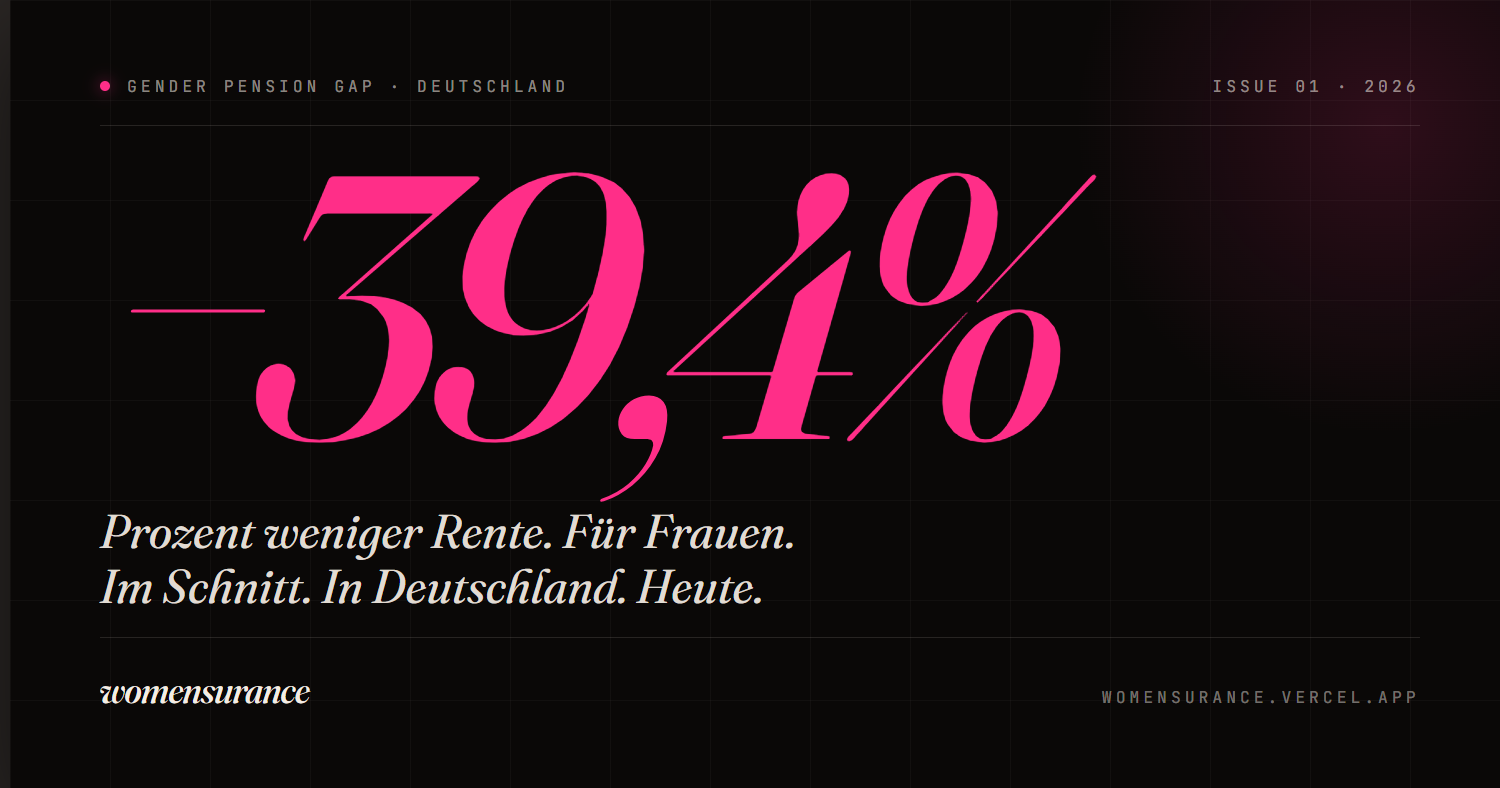
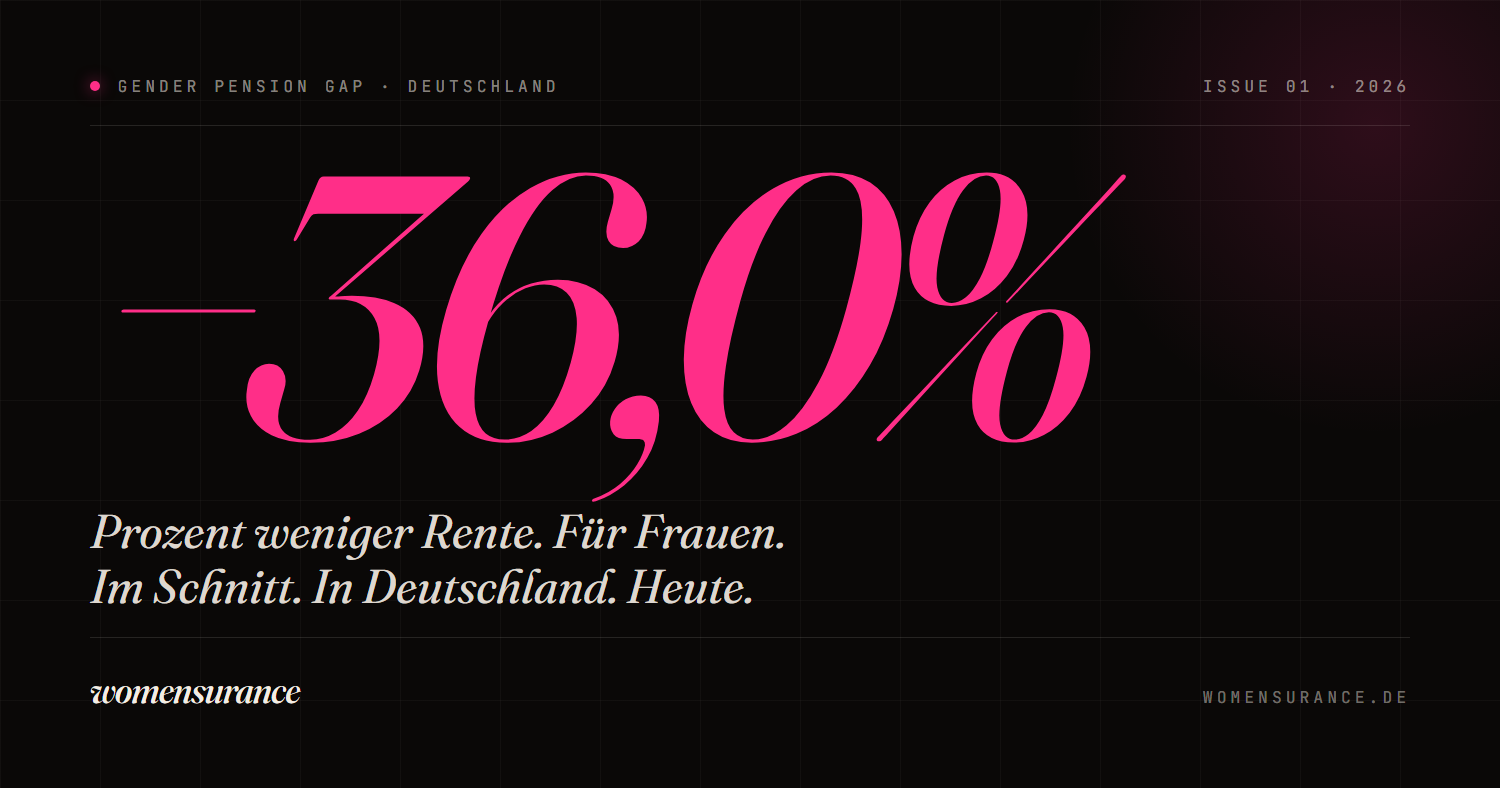
zahlen-daten abschluss

diff --git a/src/hooks/useGapState.jsx b/src/hooks/useGapState.jsx
@@ -1,5 +1,6 @@
 import { createContext, useContext, useState, useCallback, useMemo } from 'react';
 import { HERO_GAP_VALUE } from '../data/gapStats';
+import { AKTUELLER_RENTENWERT } from '../data/rentenwert';
 
 // ── Zahlen-Grundlage (Stand 04.08.2026) ──
 // Vollständige Übersicht mit allen Fundstellen, auch für Julia lesbar:
@@ -18,31 +19,33 @@ import { HERO_GAP_VALUE } from '../data/gapStats';
 //  - RETIREMENT_YEARS 15 → bewusst konservativ. Die Restlebenserwartung von
 //    Frauen ab 65 liegt höher; gerechnet wird trotzdem nur mit 15,
 //    damit die Lebenssumme nicht überzeichnet wirkt (Wunsch Julia/Felix 08/2026).
-// HERGELEITET (Entgeltpunkt-Logik, Rentenwert 40,79 € Stand 07/2025):
-// ⚠ Der Rentenwert liegt seit 01.07.2026 bei 42,52 €. Die vier Euro-Beträge
-//    unten sind noch mit 40,79 € hergeleitet und damit rund 4 % zu niedrig.
-//    Bewusst offen: gehört zusammen mit Julia neu geschärft, weil sich dabei
-//    auch die Frage der Überschneidung der Kategorien stellt.
-//  - parttime 310 €  ≈ 15 Jahre 50%-Teilzeit bei Ø-Lohn = 7,5 EP × 40,79 €.
-//  - children 180 €  ≈ Elternzeit + verzögerter Wiedereinstieg ~4,4 EP.
-//    (reine Kindererziehungszeiten werden tlw. staatlich kompensiert —
-//    Wert bildet die typischen Folgeeffekte ab; mit Julia schärfen!)
-//  - care 120 €      ≈ 2–3 Jahre reduzierte Arbeit ~3 EP.
-//  - pause 90 €      ≈ 2 Jahre ohne Beiträge ~2,2 EP.
-// ⚠ Kategorien überschneiden sich real (Teilzeit oft WEGEN Kind) — die
+// HERGELEITET über die Entgeltpunkt-Logik:
+//  - parttime 7,5 EP ≈ 15 Jahre 50%-Teilzeit bei Durchschnittslohn.
+//  - children 4,4 EP ≈ Elternzeit + verzögerter Wiedereinstieg.
+//    (reine Kindererziehungszeiten werden teilweise staatlich kompensiert;
+//    der Wert bildet die typischen Folgeeffekte ab, mit Julia schärfen!)
+//  - care     3,0 EP ≈ 2 bis 3 Jahre reduzierte Arbeit.
+//  - pause    2,2 EP ≈ 2 Jahre ohne Beiträge.
+// ⚠ Kategorien überschneiden sich real (Teilzeit oft WEGEN Kind), die
 // Summe ist eine bewusst vereinfachte Beispielrechnung, kein Bescheid.
+//
+// ⚠ Die Euro-Beträge werden BERECHNET, nicht eingetragen. Bis 04.08.2026
+// standen sie hartcodiert da, hergeleitet mit dem Rentenwert von 40,79 €.
+// Als der zum 01.07.2026 auf 42,52 € stieg, lagen sie rund 4 % zu niedrig
+// und niemand hat es gemerkt. Jetzt hängt alles an einer Zahl in
+// `data/rentenwert.js`, die einmal im Jahr nachgezogen wird.
 //
 // Ein Lebensereignis wirkt dreifach:
 //  - pct   → Beitrag zum prozentualen Pension Gap
-//  - euro  → geschätzter monatlicher Renten-Verlust in €
+//  - ep    → Entgeltpunkte, daraus wird der Euro-Betrag berechnet
 //  - x/drop→ Position + Absturz-Tiefe der Linie im Hero-Chart (SVG-Koordinaten)
-export const TOGGLE_META = [
+const LEBENSEREIGNISSE = [
   {
     id: 'pause',
     label: 'Karrierepause',
     short: 'PAUSE',
     pct: 5,
-    euro: 90,
+    ep: 2.2,
     x: 204,
     drop: 24,
     receiptLabel: 'Karrierepause',
@@ -53,7 +56,7 @@ export const TOGGLE_META = [
     label: 'Kinder bekommen',
     short: 'KIND',
     pct: 8,
-    euro: 180,
+    ep: 4.4,
     x: 300,
     drop: 34,
     receiptLabel: 'Kind & Elternzeit',
@@ -64,7 +67,7 @@ export const TOGGLE_META = [
     label: 'Teilzeit gearbeitet',
     short: 'TEILZEIT',
     pct: 12,
-    euro: 310,
+    ep: 7.5,
     x: 390,
     drop: 52,
     receiptLabel: 'Teilzeit über Jahre',
@@ -75,13 +78,21 @@ export const TOGGLE_META = [
     label: 'Angehörige gepflegt',
     short: 'PFLEGE',
     pct: 6,
-    euro: 120,
+    ep: 3.0,
     x: 480,
     drop: 40,
     receiptLabel: 'Pflege von Angehörigen',
     receiptSub: 'Unbezahlt, unsichtbar',
   },
 ];
+
+// Auf 5 € gerundet. Die Werte sind Schätzungen; glatte Zahlen sagen das auch
+// optisch, während 318,90 € eine Genauigkeit vortäuschen würde, die es nicht
+// gibt. Ergibt aktuell 95, 185, 320 und 130 € (vorher 90, 180, 310, 120).
+export const TOGGLE_META = LEBENSEREIGNISSE.map((e) => ({
+  ...e,
+  euro: Math.round((e.ep * AKTUELLER_RENTENWERT) / 5) * 5,
+}));
 
 // Eine Quelle statt zwei: Der Wert steht im Redaktionssystem, nicht hier.
 export const BASE_GAP = HERO_GAP_VALUE; // % — Gender Pension Gap, ohne Hinterbliebenenrenten

diff --git a/scripts/og-vorlage.html b/scripts/og-vorlage.html
@@ -9,17 +9,15 @@
 <style>
   * { box-sizing: border-box; margin: 0; padding: 0; }
 
+  /* Die Karte fuellt das Fenster exakt aus, damit ein Screenshot des
+     Ansichtsfensters genau die Karte trifft. Ohne Rand, ohne Zentrierung:
+     `scripts/og-bild.mjs` schiesst mit --window-size=1200,630. */
   html, body {
-    background: #2a2624;
-    min-height: 100vh;
-    display: flex;
-    flex-direction: column;
-    align-items: center;
-    justify-content: center;
-    padding: 40px 20px;
+    background: #0a0807;
+    margin: 0;
+    padding: 0;
     font-family: 'Fraunces', Georgia, serif;
     color: #f4ede4;
-    gap: 24px;
   }
 
   .hint {
@@ -170,12 +168,6 @@
 </head>
 <body>
 
-  <div class="hint">
-    Rechtsklick auf die Karte → <b>Untersuchen</b> → Element <code>.og</code> markieren →
-    Rechtsklick im DOM-Panel → <b>Capture node screenshot</b>.<br/>
-    Ergebnis: PNG mit exakt <b>1200 × 630</b>. Als <b>og-image.jpg</b> ins <code>/public</code>-Verzeichnis speichern.
-  </div>
-
   <div class="og">
     <header class="head">
       <div class="left">
@@ -186,7 +178,7 @@
     </header>
 
     <div class="core">
-      <div class="num">−39,4%</div>
+      <div class="num">−36,0%</div>
       <div class="sub">
         Prozent weniger Rente. Für Frauen.<br/>
         Im Schnitt. In Deutschland. Heute.

diff --git a/src/components/topic/ParttimeCalculator.jsx b/src/components/topic/ParttimeCalculator.jsx
@@ -3,15 +3,15 @@ import { gsap } from 'gsap';
 import MagneticButton from '../ui/MagneticButton';
 import { BOOKING_URL } from '../../config/site';
 import { RETIREMENT_YEARS } from '../../hooks/useGapState';
+import { AKTUELLER_RENTENWERT } from '../../data/rentenwert';
 
 // Offizielle Entgeltpunkt-Logik (vereinfacht):
 //  EP/Jahr = eigenes Jahresbrutto ÷ Durchschnittsentgelt (gedeckelt ~BBG)
 //  Verlust = volle EP × Teilzeit-Anteil × Jahre × aktueller Rentenwert
-// Konstanten mit Julia validieren / jährlich pflegen:
-// ⚠ Der Rentenwert wird jedes Jahr zum 1. Juli neu festgesetzt und steht
-// sichtbar unter dem Rechner. Er MUSS dann hier nachgezogen werden, sonst
-// rechnet die Seite offen mit einem veralteten gesetzlichen Wert.
-const RENTENWERT = 42.52; // €/Entgeltpunkt·Monat, Stand 01.07.2026 (zuvor 40,79 €)
+// Konstanten mit Julia validieren / jährlich pflegen.
+// Der Rentenwert steht zentral in `data/rentenwert.js`, weil auch die
+// Euro-Beträge der Lebensereignisse im Kopfbereich damit rechnen.
+const RENTENWERT = AKTUELLER_RENTENWERT;
 const AVG_INCOME_YEAR = 50493; // Durchschnittsentgelt 2025 (vorläufig)
 const EP_CAP = 2.07; // Deckel nahe Beitragsbemessungsgrenze
 const FULL_HOURS = 40;

diff --git a/src/data/rentenwert.js b/src/data/rentenwert.js
@@ -1,0 +1,19 @@
+/**
+ * Der aktuelle Rentenwert der gesetzlichen Rentenversicherung.
+ *
+ * Eine Rente ergibt sich aus: erworbene Entgeltpunkte × aktueller Rentenwert.
+ * Der Wert wird **jedes Jahr zum 1. Juli** neu festgesetzt.
+ *
+ * ⚠ Das hier ist die einzige Stelle, an der er steht. Alles andere rechnet
+ * damit: der Teilzeit-Rechner auf der Unterseite und die Euro-Beträge der
+ * Lebensereignisse im Kopfbereich. Beim jährlichen Nachziehen also nur diese
+ * Zahl und das Datum darunter ändern.
+ *
+ * Stand 01.07.2026: 42,52 € (davor 40,79 €, Anhebung um 4,24 %).
+ * Quelle: Deutsche Rentenversicherung, Rentenanpassung 2026.
+ * Siehe auch `Kunden\Womensurance (DVM)\Zahlen und Quellen.md`.
+ */
+export const AKTUELLER_RENTENWERT = 42.52;
+
+/** Für die sichtbare Angabe unter dem Rechner, z. B. „42,52 €". */
+export const RENTENWERT_TEXT = AKTUELLER_RENTENWERT.toFixed(2).replace('.', ',');

diff --git a/index.html b/index.html
@@ -16,8 +16,8 @@
     <meta property="og:description" content="Versicherungsberatung für Frauen. Auf Augenhöhe, entlang deines Lebens. Eine Marke der DVM Ingolstadt." />
     <meta property="og:image" content="https://womensurance.de/og-image.png" />
     <meta property="og:image:type" content="image/png" />
-    <meta property="og:image:width" content="1200" />
-    <meta property="og:image:height" content="630" />
+    <meta property="og:image:width" content="1500" />
+    <meta property="og:image:height" content="788" />
     <meta property="og:image:alt" content="Womensurance — Finanzielle Freiheit für Frauen" />
     <meta property="og:locale" content="de_DE" />
     <meta property="og:site_name" content="Womensurance" />

diff --git a/scripts/roh/scheidung.js b/scripts/roh/scheidung.js
@@ -23,10 +23,11 @@ export const inhalt = {
           source: '§ 1 Versorgungsausgleichsgesetz (VersAusglG)',
         },
         {
-          value: 50,
+          value: 51.7,
           unit: '%',
-          label: 'aller Scheidungsanträge erfolgen durch die Frau.',
-          source: 'Quelle: Destatis*',
+          decimals: 1,
+          label: 'der Scheidungen im Jahr 2025 betrafen Paare mit minderjährigen Kindern. Insgesamt ging es um rund 113.400 Kinder.',
+          source: 'Statistisches Bundesamt, Pressemitteilung Nr. 220 vom 26.06.2026',
         },
       ],
   chapters: [

diff --git a/CLAUDE.md b/CLAUDE.md
@@ -92,7 +92,7 @@ Das CMS-Thema kam vor Finalisierung hoch (DVMs Personalerin fragte „welches CM
 
   Mitgezogen wurden auch die Seed-Skripte (`scripts/roh/rentenluecke.js`, `scripts/roh/scheidung.js`), damit ein erneutes Befüllen die alten Werte nicht zurückholt.
 
-- [ ] **Einzige Zahl ohne Beleg: „50 % aller Scheidungsanträge erfolgen durch die Frau"** (Unterseite Scheidung). Real eher 51 bis 53 %, die Scheidungs-Pressemitteilung weist den Antragsteller nicht nach Geschlecht aus. Bewusst stehen gelassen (Entscheidung Felix, 04.08.2026). Zu belegen wäre sie über die Fachserie „Statistik der rechtskräftigen Beschlüsse in Ehesachen"; dann aber korrekt als „mehr als die Hälfte" formulieren. **Jeder Build meldet sie als Warnung**, siehe unten.
+- [x] **Auch die letzte Zahl ist belegt (04.08.2026).** „50 % aller Scheidungsanträge erfolgen durch die Frau" war nicht belegbar und ist ersetzt durch **51,7 % der Scheidungen 2025 betrafen Paare mit minderjährigen Kindern** (rund 67.200 Scheidungen, rund 113.400 Kinder), Destatis PM Nr. 220 vom 26.06.2026, also dieselbe Quelle wie die 130.100 daneben. **Inhaltlich der bessere Wert:** Er schlägt die Brücke von der Scheidungsseite zum Kernthema, weil Kinder zu Elternzeit und Teilzeit führen und genau daraus die Rentenlücke entsteht. Der Quellen-Wächter meldet seitdem nichts mehr.
 
 - [x] ⚠ **Die Falle „Julia ändert eine Zahl, nichts passiert" ist behoben (04.08.2026).** Vorher war `src/data/gapStats.js` toter Code: Nichts importierte es, `content/kennzahlen.json` landete nicht im Bundle, und die sichtbaren Zahlen standen hartcodiert in `useGapState.jsx` und `Loader.jsx`. Ausgerechnet der Kommentarkopf der Datei und die Schema-Beschreibung behaupteten das Gegenteil. **Gelöst in der Richtung, die das Schema immer beschrieben hat:** `BASE_GAP` (useGapState) und der Zähler im Ladebildschirm lesen jetzt beide `HERO_GAP_VALUE` aus der Kennzahl `pension`. Julias Änderung im Studio schlägt damit auf Ladebildschirm, Rechner, Quittung und den Platzhalter `{basiswert}` im Lückentext durch. **Nicht gewählt:** das Kennzahlen-Band neu einbauen (wäre eine ungefragte Layout-Änderung) oder die Dokumente löschen (hätte den belegten Datensatz vernichtet).
 
@@ -101,6 +101,10 @@ Das CMS-Thema kam vor Finalisierung hoch (DVMs Personalerin fragte „welches CM
 - [x] **Nebenfund: der sichtbare Zähler rechnete deutsch falsch.** `DataNumber` schrieb `toFixed()`, also „39.4 %" mit Punkt, während die Vorlesefassung daneben korrekt „39,4 %" sagte. Betraf genau die Rentenlücken-Zahl, weil nur die eine Nachkommastelle hat. Jetzt über `deNum()` aus `utils/format.js`, mit Tausendertrenner, was nebenbei erst die 130.100 auf der Scheidungsseite möglich machte (gemessen: 202 px in 357 px Spalte am Desktop, 146 px in 327 px mobil, kein Querscrollen).
 
 - [x] **Chart-Geometrie bewusst NICHT nachkalibriert.** Der Kommentar in `OpeningStatement.jsx` nannte „39,4 % ≙ 150 px". Die Proportionalität war aber immer nur ein grober Nebeneffekt (auch die Toggle-Summe passte vorher nicht exakt), und die Kurve ist von Hand auf den Floor bei 425 abgestimmt. Sichtbar ist die Zahl, nicht die Pixelhöhe. Steht so als Warnung im Code.
+
+- [x] **Die vier Euro-Beträge werden jetzt berechnet statt eingetragen (04.08.2026).** Sie standen hartcodiert mit 90/180/310/120 € da, hergeleitet mit dem Rentenwert 40,79 €. Als der zum 01.07.2026 auf 42,52 € stieg, lagen sie rund 4 % zu niedrig und niemand merkte es. `TOGGLE_META` trägt jetzt **Entgeltpunkte** (2,2 · 4,4 · 7,5 · 3,0), der Euro-Betrag entsteht daraus mal `AKTUELLER_RENTENWERT`, auf 5 € gerundet ⇒ **95 / 185 / 320 / 130 €** (Summe 730 statt 700 €). Runden auf 5 € ist Absicht: 318,90 € täuschte eine Genauigkeit vor, die das Modell nicht hat.
+
+- [x] **Der Rentenwert steht nur noch an einer Stelle:** `src/data/rentenwert.js`. Vorher hatte `ParttimeCalculator.jsx` seine eigene Konstante und die Euro-Beträge ihre eigene Herleitung. ⚠ **Jährliche Pflegeaufgabe zum 1. Juli**, danach ziehen Teilzeit-Rechner und Lebensereignisse automatisch mit.
 
 - [x] **Aktueller Rentenwert auf 42,52 € gezogen** (04.08.2026, `ParttimeCalculator.jsx`). Er stand auf 40,79 € (Stand 07/2025) und wird **sichtbar unter dem Rechner ausgewiesen**; zum 01.07.2026 hat die DRV um 4,24 % angehoben. ⚠ **Jährliche Pflegeaufgabe zum 1. Juli.** Nicht mitgezogen: Die vier Euro-Beträge in `TOGGLE_META` (90/180/310/120 €) wurden seinerzeit mit 40,79 € hergeleitet und liegen damit rund 4 % zu niedrig. Bewusst offen gelassen, weil sie zusammen mit der 39,4-Frage in einem Rutsch mit Julia geschärft werden sollten.
 - [x] Manuell gegengeprüft: `prefers-reduced-motion` (Felix, 03.08.2026). Der Preview-Browser kann die Media Query nicht emulieren, das musste von Hand passieren.
@@ -294,7 +298,13 @@ Der deployte Bericht nannte zwei Dinge, die lokal nicht sichtbar waren:
 - *„Browser errors were logged to the console"* lokal: `/_vercel/insights/script.js` und `/_vercel/speed-insights/script.js` gibt es nur auf Vercel. Deployed war Best Practices **100**. Kein Defekt.
 - *„Missing source maps for large first-party JavaScript"*: Sourcemaps auszuliefern hieße, den Quellcode der Kundenseite offenzulegen. Der Punkt ist diagnostisch und kostet keine Wertung.
 
-✅ **`og:url`, `twitter:url`, `og:image` und `twitter:image` stehen seit 04.08.2026 auf `womensurance.de`** (dazu die Anzeige-Adresse in `public/og-preview.html`). Die Linkvorschau ist damit bis zur DNS-Umstellung kurz kaputt, das war Felix' bewusste Entscheidung, weil die Umstellung unmittelbar bevorsteht. `SITE_URL` in `config/site.js` stand ohnehin schon auf der echten Domain, damit `rel=canonical` von Anfang an aufs Ziel zeigt.
+✅ **`og:url`, `twitter:url`, `og:image` und `twitter:image` stehen seit 04.08.2026 auf `womensurance.de`.** Die Linkvorschau ist damit bis zur DNS-Umstellung kurz kaputt, das war Felix’ bewusste Entscheidung, weil die Umstellung unmittelbar bevorsteht. `SITE_URL` in `config/site.js` stand ohnehin schon auf der echten Domain, damit `rel=canonical` von Anfang an aufs Ziel zeigt.
+
+⚠⚠ **Das Vorschaubild selbst wurde dabei fast vergessen** (Hinweis von Felix, 04.08.2026). `public/og-image.png` zeigte in Riesenlettern **„−39,4%"** und im Fuß **„WOMENSURANCE.VERCEL.APP"**, gerendert im Mai und seitdem nie wieder angefasst. Das ist das Bild, das in jedem WhatsApp-, LinkedIn- und Slack-Link erscheint. **Lehre: Ein Zahlenwechsel endet nicht im Code.** Bei der nächsten Änderung des Gender Pension Gap ebenfalls neu erzeugen.
+
+  Neu erzeugt mit `node scripts/og-bild.mjs`. Das Skript schießt mit Chrome im Kopflos-Modus einen Screenshot von `scripts/og-vorlage.html` (1200×630 bei Skalierung 1,25 ⇒ 1500×788). Zwei Dinge dabei mitgelöst:
+  - Die Vorlage lag in `public/` und war damit **eine öffentlich erreichbare Seite, die Schriften vom Google-CDN nachlädt** — genau das, was die Website an jeder anderen Stelle vermeidet (siehe Datenschutzerklärung). Jetzt liegt sie in `scripts/` und wird nicht mehr ausgeliefert.
+  - `og:image:width`/`height` sagten 1200×630, die Datei war aber 1500×788. Jetzt auf 1500×788 korrigiert.
 
 ### A.16c · Dritte Runde: die letzten zwei Netz-Hebel
 
